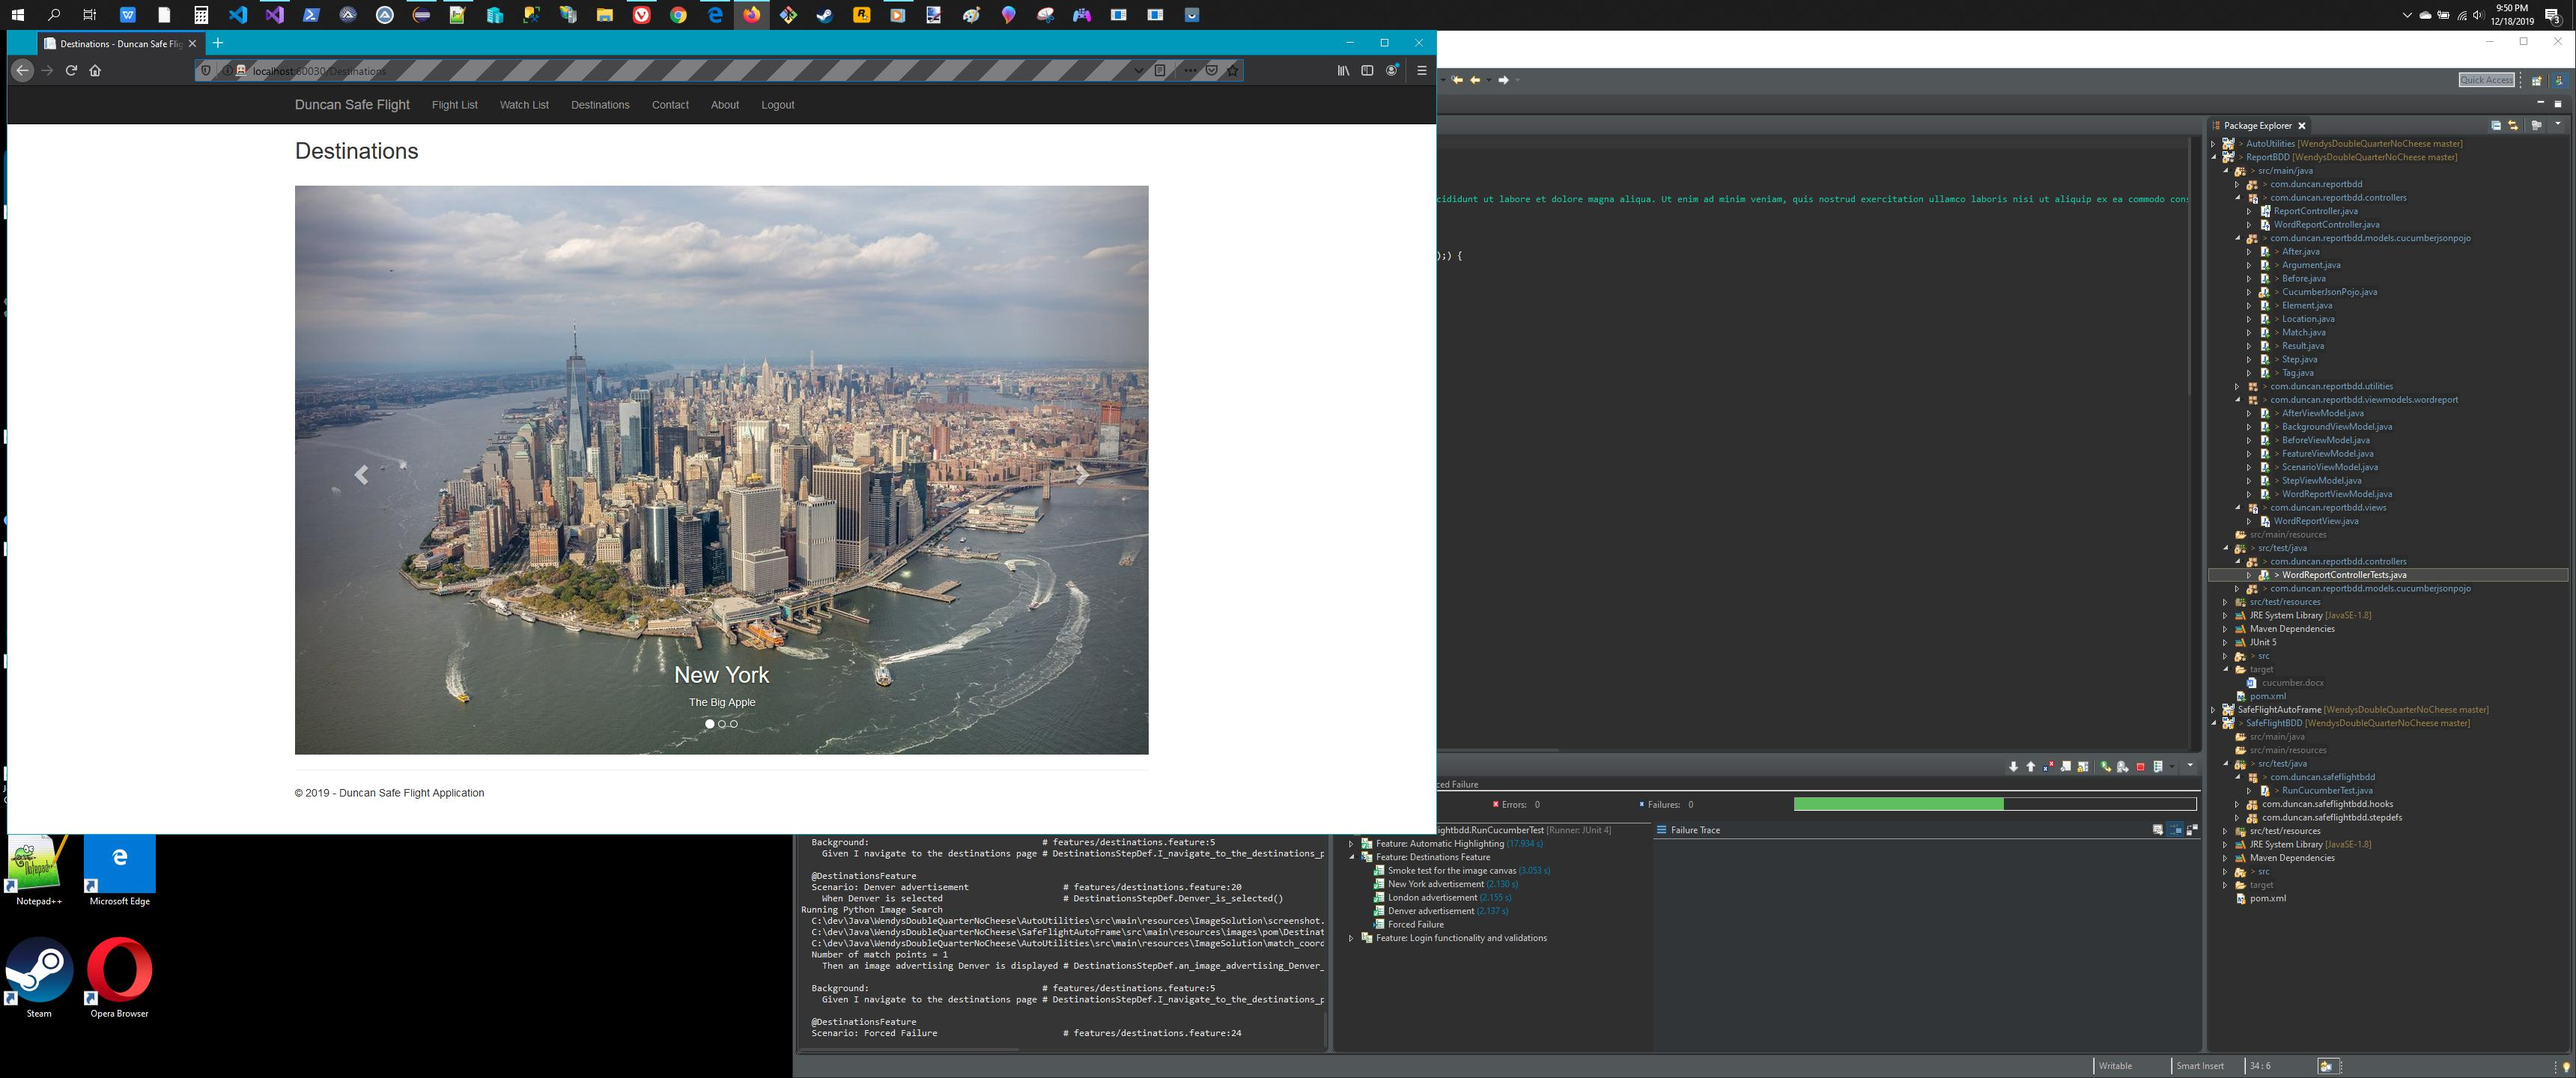
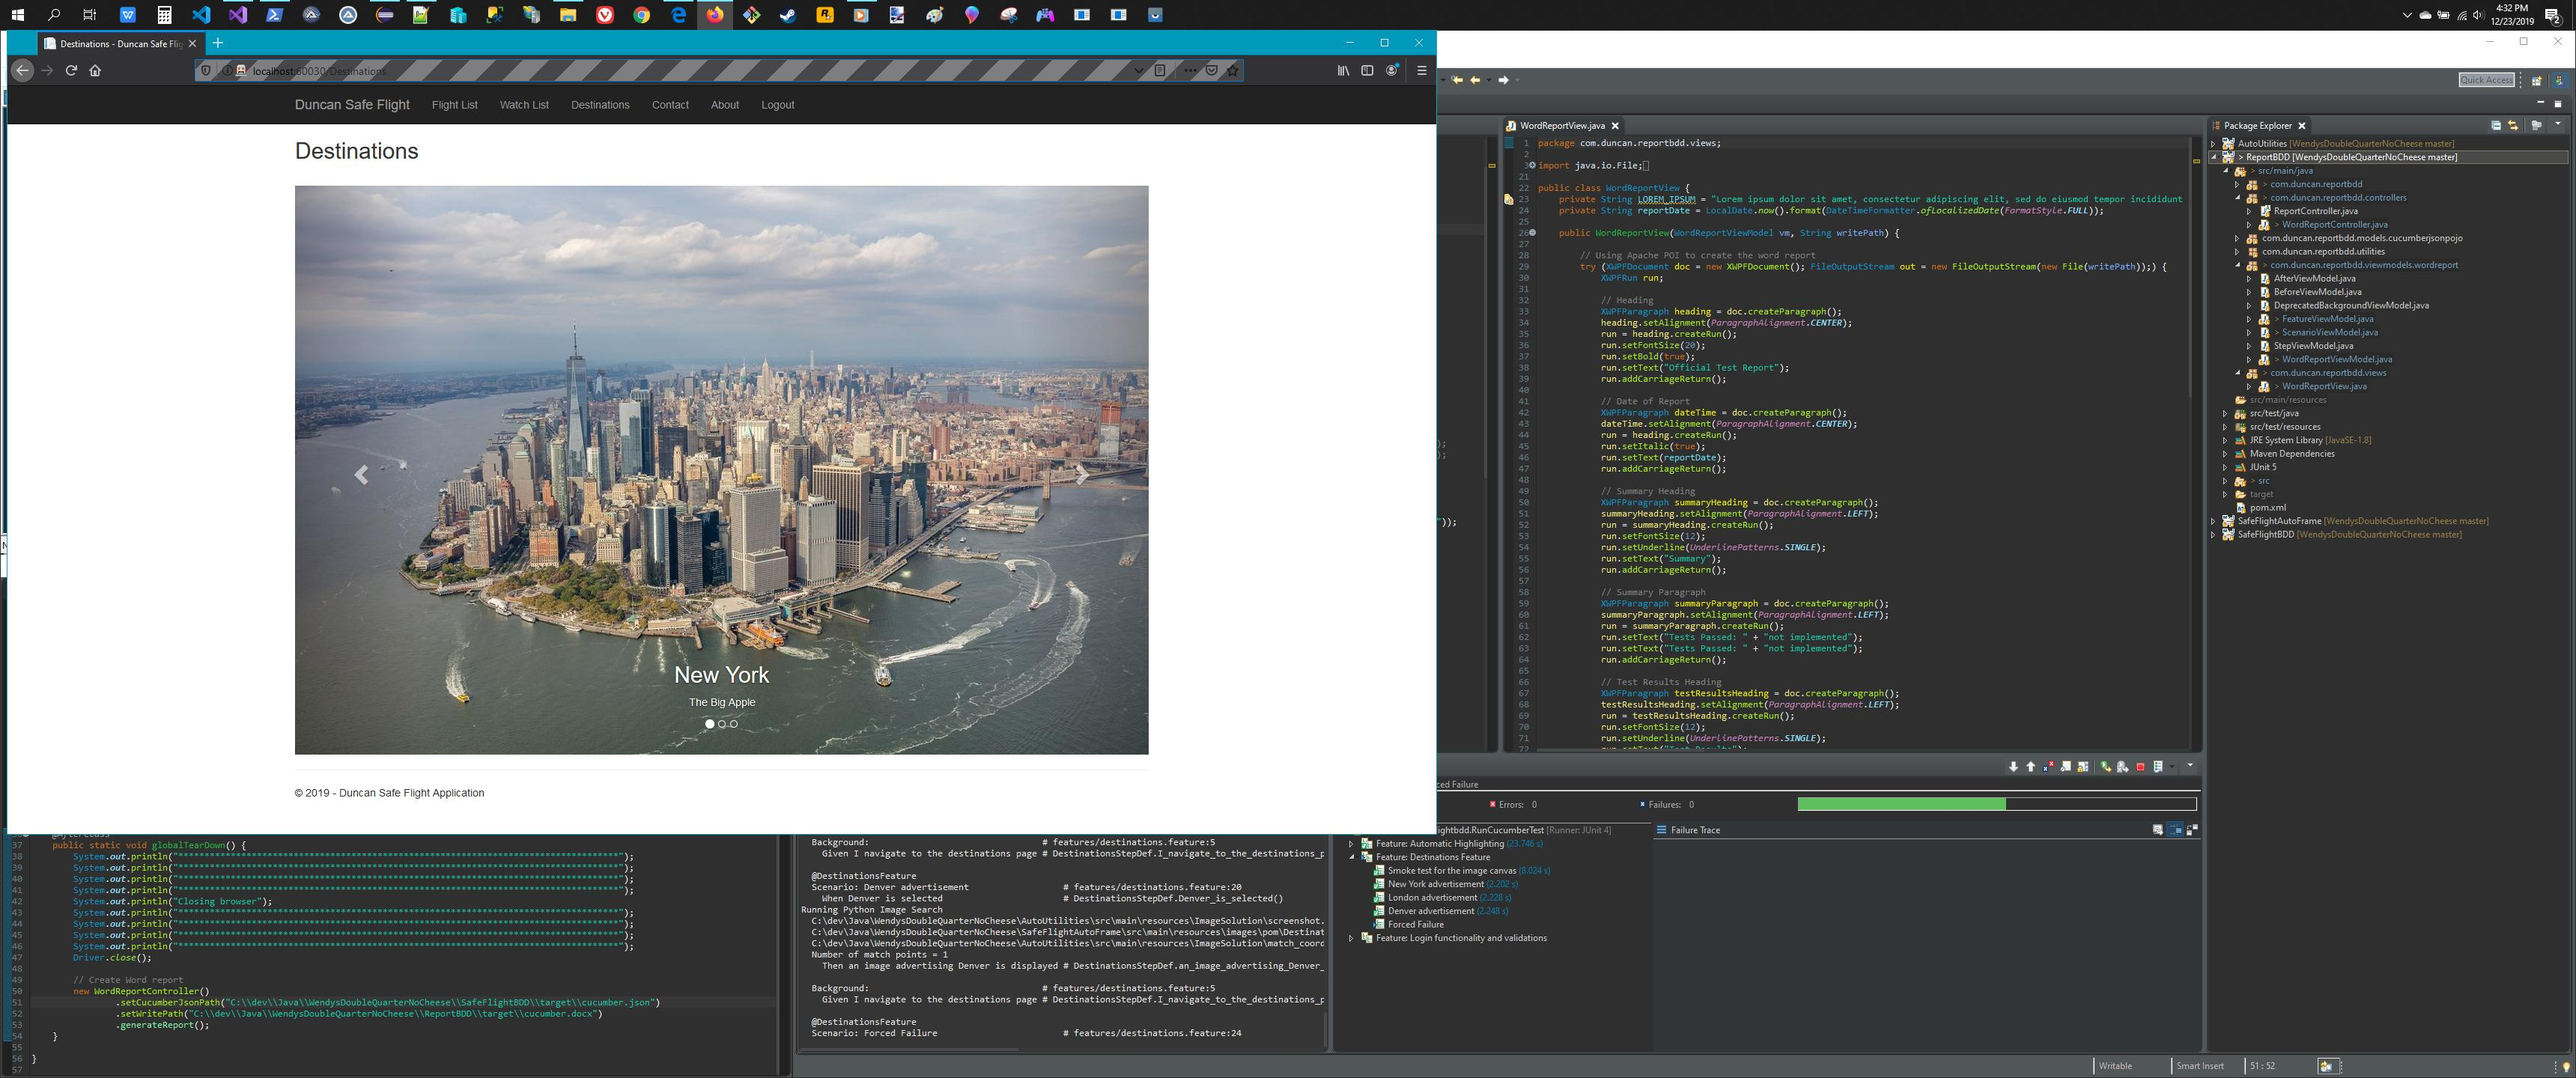
updates

diff --git a/ReportBDD/src/main/java/com/duncan/reportbdd/controllers/WordReportController.java b/ReportBDD/src/main/java/com/duncan/reportbdd/controllers/WordReportController.java
@@ -1,5 +1,10 @@
 package com.duncan.reportbdd.controllers;
 
+import java.util.ArrayList;
+import java.util.Arrays;
+import java.util.List;
+import java.util.stream.Collectors;
+
 import com.duncan.reportbdd.models.cucumberjsonpojo.After;
 import com.duncan.reportbdd.models.cucumberjsonpojo.Before;
 import com.duncan.reportbdd.models.cucumberjsonpojo.CucumberJsonPojo;
@@ -23,6 +28,11 @@ public class WordReportController extends ReportController {
 	}
 
 	private void initializeViewModel() {
+		
+		//return scenarios.stream().map(x -> x.getStatus()).collect(Collectors.summingInt(Integer::intValue));
+		//return features.stream().map(x -> x.getNumTestsPassed()).collect(Collectors.summingInt(Integer::intValue));
+		//return features.stream().map(x -> x.getNumTestsFailed()).collect(Collectors.summingInt(Integer::intValue));
+		
 		wordReportViewModel = new WordReportViewModel();
 
 		for (CucumberJsonPojo feature : root) {
@@ -30,90 +40,66 @@ public class WordReportController extends ReportController {
 			featureVM.setDescription(feature.getDescription().trim().replaceAll("\\R", " ").replaceAll("\\s{2,}", ""));
 			featureVM.setName(feature.getName().trim().replaceAll("\\s{2,}", ""));
 
-			Boolean featurePass = true;
-
-			// Get the backgrounds
-			for (Element element : feature.getElements()) {
-				if (element.getType().equals("background")) {
-					StepViewModel backgroundVM = new StepViewModel();
-
-					// Get the background steps
-					for (Step step : element.getSteps()) {
+			List<Element> elements = Arrays.asList(feature.getElements()); 			
+			for (int i = 0; i < elements.size(); i++) {
+				ScenarioViewModel scenarioVM = new ScenarioViewModel();
+	
+				// Background Steps
+				List<StepViewModel> backgrounds = new ArrayList<StepViewModel>();
+				while (elements.get(i).getType().equals("background")) {
+					for (Step step : elements.get(i).getSteps()) {
 						StepViewModel stepVM = new StepViewModel();
-						stepVM.setName(step.getName().trim().replaceAll("\\s{2,}", ""));
-						stepVM.setKeyword(step.getKeyword().trim().replaceAll("\\s{2,}", ""));
-						stepVM.setStatus(step.getResult().getStatus());
+						stepVM.setDuration(step.getResult().getDuration());
 						stepVM.setErrorMessage(step.getResult().getError_message());
-						if (!stepVM.getStatus().equals("passed")) {
-							featurePass = false; // if any background step fails, the feature fails
-						}
-						backgroundVM.getSteps().add(stepVM);
-					}
-
-					featureVM.getBackgrounds().add(backgroundVM);
-				}
-			}
-
-			// Get the scenarios
-			for (Element element : feature.getElements()) {
-				if (element.getType().equals("scenario")) {
-					ScenarioViewModel scenarioVM = new ScenarioViewModel();
-					scenarioVM.setDescription(element.getDescription().trim().replaceAll("\\s{2,}", ""));
-					scenarioVM.setName(element.getName().trim().replaceAll("\\s{2,}", ""));
-
-					Boolean scenarioPass = true;
-
-					// Get the before steps
-					for (Before beforeStep : element.getBefore()) {
-						StepViewModel stepVM = new StepViewModel();
-						stepVM.setStatus(beforeStep.getResult().getStatus());
-						stepVM.setErrorMessage(beforeStep.getResult().getError_message());
-						if (!stepVM.getStatus().equals("passed")) {
-							scenarioPass = false; // if any before step fails, the scenario fails
-							featurePass = false; // if any before step fails, the feature fails
-						}
-						scenarioVM.getBeforeSteps().add(stepVM);
-					}
-
-					// Get the steps
-					for (Step step : element.getSteps()) {
-						StepViewModel stepVM = new StepViewModel();
-						stepVM.setName(step.getName().trim().replaceAll("\\s{2,}", ""));
-						stepVM.setKeyword(step.getKeyword().trim().replaceAll("\\s{2,}", ""));
+						stepVM.setKeyword(step.getKeyword());
+						stepVM.setName(step.getName());
 						stepVM.setStatus(step.getResult().getStatus());
-						stepVM.setErrorMessage(step.getResult().getError_message());
-						if (!stepVM.getStatus().equals("passed")) {
-							scenarioPass = false; // if any step fails, the scenario fails
-							featurePass = false; // if any step fails, the feature fails
-						}
-						scenarioVM.getSteps().add(stepVM);
+						backgrounds.add(stepVM);
+						i++;
 					}
-
-					// Get the after steps
-					for (After afterStep : element.getAfter()) {
-						StepViewModel stepVM = new StepViewModel();
-						stepVM.setStatus(afterStep.getResult().getStatus());
-						stepVM.setErrorMessage(afterStep.getResult().getError_message());
-						if (!stepVM.getStatus().equals("passed")) {
-							scenarioPass = false; // if any after step fails, the scenario fails
-							featurePass = false; // if any after step fails, the feature fails
-						}
-						scenarioVM.getAfterSteps().add(stepVM);
-					}
-
-					if (scenarioPass) {
-						scenarioVM.setStatus("passed");
-					} else {
-						scenarioVM.setStatus("failed");
-					}
-					featureVM.getScenarios().add(scenarioVM);
 				}
-			}
+				scenarioVM.setBackgrounds(backgrounds);
+				
+				if (elements.get(i).getType().equals("scenario")) {
+					
+					List<StepViewModel> beforeSteps = new ArrayList<StepViewModel>();
+					for (Before before : elements.get(i).getBefore()) {
+						StepViewModel stepVM = new StepViewModel();
+						stepVM.setDuration(before.getResult().getDuration());
+						stepVM.setErrorMessage(before.getResult().getError_message());
+						stepVM.setKeyword("");
+						stepVM.setName("");
+						stepVM.setStatus(before.getResult().getStatus());
+						beforeSteps.add(stepVM);
+					}
+					scenarioVM.setBeforeSteps(beforeSteps);					
+					
+					List<StepViewModel> steps = new ArrayList<StepViewModel>();					
+					for (Step step : elements.get(i).getSteps()) {
+						StepViewModel stepVM = new StepViewModel();
+						stepVM.setDuration(step.getResult().getDuration());
+						stepVM.setErrorMessage(step.getResult().getError_message());
+						stepVM.setKeyword(step.getKeyword());
+						stepVM.setName(step.getName());
+						stepVM.setStatus(step.getResult().getStatus());						
+						steps.add(stepVM);
+					}
+					scenarioVM.setSteps(steps);
+					
+					List<StepViewModel> afterSteps = new ArrayList<StepViewModel>();					
+					for (After after : elements.get(i).getAfter()) {
+						StepViewModel stepVM = new StepViewModel();
+						stepVM.setDuration(after.getResult().getDuration());
+						stepVM.setErrorMessage(after.getResult().getError_message());
+						stepVM.setKeyword("");
+						stepVM.setName("");
+						stepVM.setStatus(after.getResult().getStatus());
+						afterSteps.add(stepVM);						
+					}
+					scenarioVM.setAfterSteps(afterSteps);
 
-			if (featurePass) {
-				featureVM.setStatus("passed");
-			} else {
-				featureVM.setStatus("failed");
+				}
+				featureVM.getScenarios().add(scenarioVM);
 			}
 			wordReportViewModel.getFeatures().add(featureVM);
 		}

diff --git a/ReportBDD/src/main/java/com/duncan/reportbdd/viewmodels/wordreport/FeatureViewModel.java b/ReportBDD/src/main/java/com/duncan/reportbdd/viewmodels/wordreport/FeatureViewModel.java
@@ -2,23 +2,17 @@ package com.duncan.reportbdd.viewmodels.wordreport;
 
 import java.util.ArrayList;
 import java.util.List;
+import java.util.stream.Collectors;
 
 public class FeatureViewModel {
 
 	private String name;
 	private String description;
-	private String status; // pass or fail
-	private List<ScenarioViewModel> scenarios = new ArrayList<ScenarioViewModel>();
-
-	public Integer getNumTestsPassed() {
-		//return scenarios.stream().map(x -> x.getStatus)
-		
-	}
+	private String status;
 	
-	public Integer getNumTestsFailed() {
-		
-		return 0;
-	}
+	private List<ScenarioViewModel> scenarios = new ArrayList<ScenarioViewModel>();
+	private Integer numberScenariosPassed;
+	private Integer numberScenariosFailed;
 	
 	public String getName() {
 		return name;
@@ -30,6 +24,22 @@ public class FeatureViewModel {
 
 	public String getDescription() {
 		return description;
+	}
+
+	public Integer getNumberScenariosPassed() {
+		return numberScenariosPassed;
+	}
+
+	public void setNumberScenariosPassed(Integer numberScenariosPassed) {
+		this.numberScenariosPassed = numberScenariosPassed;
+	}
+
+	public Integer getNumberScenariosFailed() {
+		return numberScenariosFailed;
+	}
+
+	public void setNumberScenariosFailed(Integer numberScenariosFailed) {
+		this.numberScenariosFailed = numberScenariosFailed;
 	}
 
 	public void setDescription(String description) {

diff --git a/ReportBDD/src/main/java/com/duncan/reportbdd/viewmodels/wordreport/WordReportViewModel.java b/ReportBDD/src/main/java/com/duncan/reportbdd/viewmodels/wordreport/WordReportViewModel.java
@@ -10,19 +10,29 @@ public class WordReportViewModel {
 	private String department;
 	private String date;
 	private String introParagraph;
-
+	
 	private List<FeatureViewModel> features = new ArrayList<FeatureViewModel>();
-
-	public Integer getNumTestsPassed() {
-		return features.stream().map(x -> x.getNumTestsPassed()).collect(Collectors.summingInt(Integer::intValue));
-	}
-
-	public Integer getNumTestsFailed() {
-		return features.stream().map(x -> x.getNumTestsFailed()).collect(Collectors.summingInt(Integer::intValue));
-	}
+	private Integer numberFeaturesPassed;
+	private Integer numberFeaturesFailed;
 
 	public String getTitle() {
 		return title;
+	}
+
+	public Integer getNumberFeaturesPassed() {
+		return numberFeaturesPassed;
+	}
+
+	public void setNumberFeaturesPassed(Integer numberFeaturesPassed) {
+		this.numberFeaturesPassed = numberFeaturesPassed;
+	}
+
+	public Integer getNumberFeaturesFailed() {
+		return numberFeaturesFailed;
+	}
+
+	public void setNumberFeaturesFailed(Integer numberFeaturesFailed) {
+		this.numberFeaturesFailed = numberFeaturesFailed;
 	}
 
 	public void setTitle(String title) {

diff --git a/ReportBDD/src/main/java/com/duncan/reportbdd/views/WordReportView.java b/ReportBDD/src/main/java/com/duncan/reportbdd/views/WordReportView.java
@@ -59,7 +59,8 @@ public class WordReportView {
 			XWPFParagraph summaryParagraph = doc.createParagraph();
 			summaryParagraph.setAlignment(ParagraphAlignment.LEFT);
 			run = summaryParagraph.createRun();
-			run.setText("Tests Passed: " + vm.getNumTestsPassed());
+			run.setText("Tests Passed: " + "not implemented");
+			run.setText("Tests Passed: " + "not implemented");
 			run.addCarriageReturn();
 
 			// Test Results Heading

diff --git a/ReportBDD/src/main/java/com/duncan/reportbdd/viewmodels/wordreport/ScenarioViewModel.java b/ReportBDD/src/main/java/com/duncan/reportbdd/viewmodels/wordreport/ScenarioViewModel.java
@@ -4,9 +4,10 @@ import java.util.ArrayList;
 import java.util.List;
 
 public class ScenarioViewModel {
+	
 	private String name;
 	private String description;
-	private String status; // pass or fail
+	private String status;
 
 	private List<StepViewModel> backgrounds = new ArrayList<StepViewModel>();
 	private List<StepViewModel> beforeHooks = new ArrayList<StepViewModel>();
